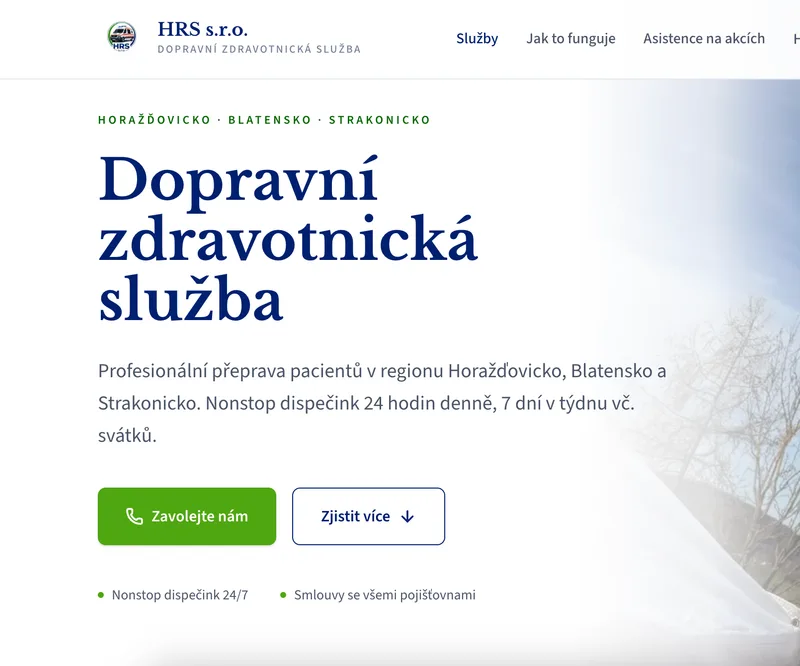
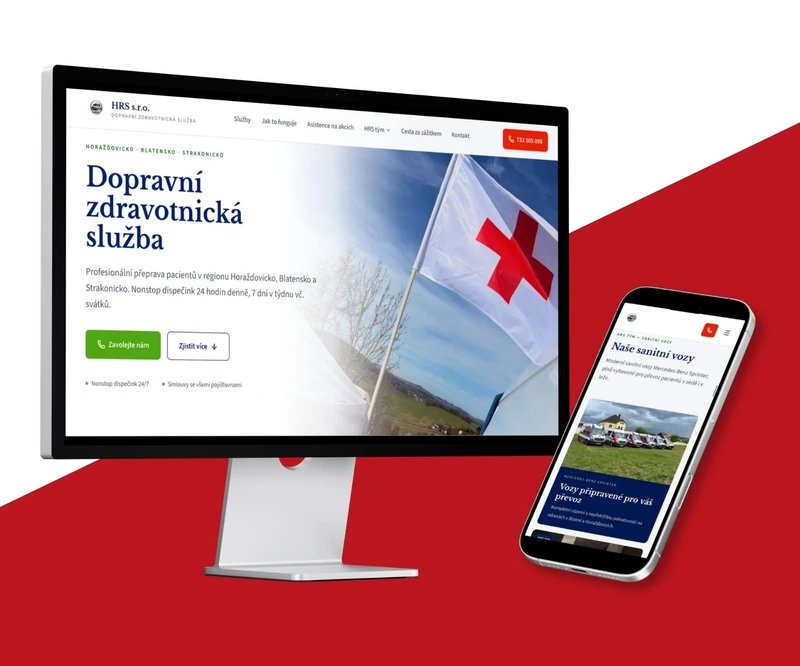
feat(projekty): nová fotka HRS Sanitky + projekt Karolína Šafránková
- hrs-sanitky.cz.webp nahrazen novým mockupem (monitor + telefon)
- nový projekt safrankova-karolina.cz jako číslo 09
- karta na /projekty a případová studie /projekty/safrankova-karolina-cz

diff --git a/src/data/seo/cases.ts b/src/data/seo/cases.ts
@@ -28,6 +28,11 @@ export const caseCards: CaseCard[] = [
     name: "HRS Sanitky",
     text: "Prezentační web pro službu v oblasti zdravotní dopravy. Důraz na srozumitelnost, důvěru, klidný tón a rychlé pochopení služby.",
   },
+  {
+    slug: "safrankova-karolina-cz",
+    name: "Karolína Šafránková",
+    text: "Osobní castingové portfolio pro herečku, fotomodelku a dabérku. Web postavený na obrazu, osobnosti a dosavadní práci místo běžného životopisu.",
+  },
 ];
 
 export const projectsIndex = {
@@ -214,6 +219,55 @@ export const cases: DetailPage[] = [
       {
         kind: "p",
         text: "HRS Sanitky ukazují, že u služeb nejde jen o vzhled webu. Důležité je i to, jak web působí. U zdravotní dopravy musí být komunikace klidná, věcná a jasná. Návštěvník nemá luštit, co firma dělá. Má to pochopit během pár vteřin.",
+      },
+    ],
+    related: {
+      heading: "Související služby",
+      links: [
+        { label: "Tvorba webů", href: "/sluzby/tvorba-webu" },
+        { label: "Texty a struktura webu", href: "/sluzby/tvorba-webu" },
+        { label: "SEO a GEO optimalizace", href: "/sluzby/seo-geo-optimalizace" },
+      ],
+    },
+  },
+  {
+    slug: "safrankova-karolina-cz",
+    title: "Karolína Šafránková | Osobní portfolio pro herečku",
+    description:
+      "Případová studie webu safrankova-karolina.cz. Osobní castingové portfolio pro herečku, fotomodelku a dabérku — role, divadlo, fotografie, dabing a kontakt na jednom místě.",
+    h1: "Karolína Šafránková – osobní portfolio pro herečku",
+    crumb: "Karolína Šafránková",
+    lead: [
+      "Karolína Šafránková je česká herečka, fotomodelka a dabérka. Cílem bylo vytvořit osobní web, který nebude působit jako běžný životopis, ale jako profesionální castingové portfolio postavené především na obrazu, osobnosti a dosavadní práci.",
+      "Web propojuje filmové a televizní role, divadelní angažmá, fotografické portfolio, dabing, profesní informace a kontakty do jednoho místa. Důležitá byla jednoduchá orientace pro castingové režiséry, produkce nebo fotografy a zároveň vizuální styl, který nechá vyniknout samotnou Karolínu.",
+    ],
+    blocks: [
+      { kind: "h2", text: "Co jsem řešil" },
+      {
+        kind: "ul",
+        items: [
+          "návrh celkového konceptu osobního hereckého portfolia",
+          "vizuální směr inspirovaný filmem, módním editorialem a castingovými weby",
+          "práci s výraznou typografií a velkoformátovými fotografiemi",
+          "prezentaci filmových a televizních rolí",
+          "přehled divadelního angažmá a vybraných inscenací",
+          "fotografické portfolio rozdělené podle typu snímků",
+          "samostatnou prezentaci dabingové tvorby",
+          "profesní profil s nejdůležitějšími informacemi pro casting",
+          "možnost stažení CV přímo z webu",
+          "odkazy na externí profesní profily a reference",
+          "kontaktní část připravenou pro casting a pracovní nabídky",
+          "responzivní podobu webu pro mobilní zařízení",
+        ],
+      },
+      { kind: "h2", text: "Co projekt ukazuje" },
+      {
+        kind: "p",
+        text: "Projekt ukazuje, že dobrý web nemusí stát na množství funkcí. U osobního portfolia je naopak důležité vědět, co upozadit a čemu dát prostor.",
+      },
+      {
+        kind: "p",
+        text: "Výsledkem je web navržený kolem konkrétního člověka a způsobu, jakým se v jeho oboru hledají nové pracovní příležitosti. Místo univerzální šablony vznikla prezentace, která propojuje osobnost, fotografie, zkušenosti a potřebné informace do jednoho vizuálně výrazného celku.",
       },
     ],
     related: {

diff --git a/src/data/projects.ts b/src/data/projects.ts
@@ -165,4 +165,18 @@ export const projects: Project[] = [
     image: "/projects/spravedlnost.cz.webp",
     accentColor: "#3E6DA6",
   },
+  {
+    number: "09",
+    name: "Karolína Šafránková",
+    url: "safrankova-karolina.cz",
+    href: "https://www.safrankova-karolina.cz",
+    meta: "2026 · Portfolio · Live",
+    tagline: "Osobní portfolio pro herečku.",
+    description:
+      "Karolína Šafránková je česká herečka, fotomodelka a dabérka. Cílem bylo vytvořit osobní web, který nebude působit jako běžný životopis, ale jako profesionální castingové portfolio postavené především na obrazu, osobnosti a dosavadní práci. Web propojuje filmové a televizní role, divadelní angažmá, fotografické portfolio, dabing, profesní informace a kontakty do jednoho místa.",
+    stats: [],
+    tags: ["Osobní web", "Portfolio", "Vizuální styl", "Responzivní"],
+    image: "/projects/safrankova-karolina.cz.webp",
+    accentColor: "#B79A7E",
+  },
 ];
